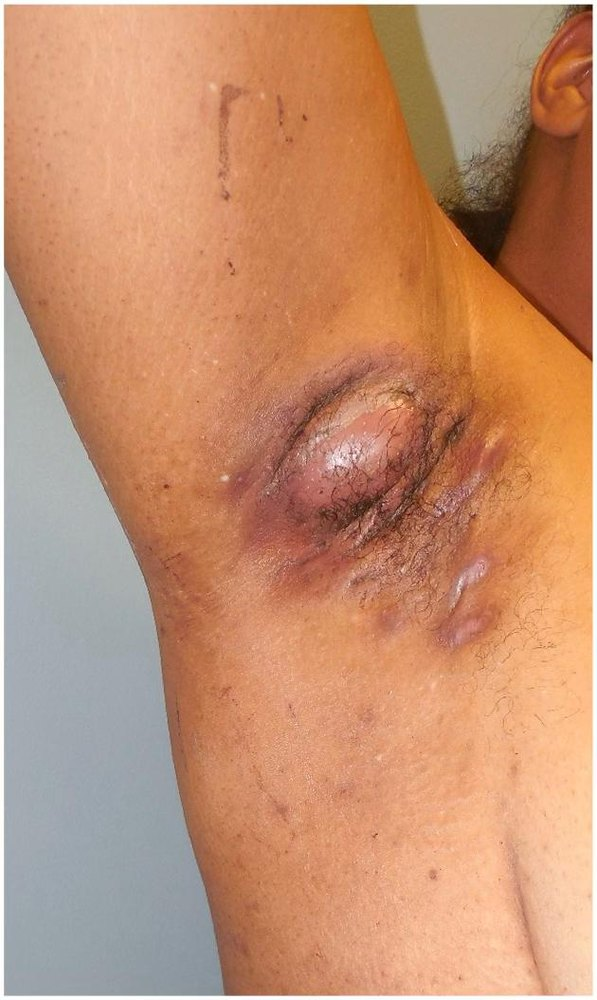
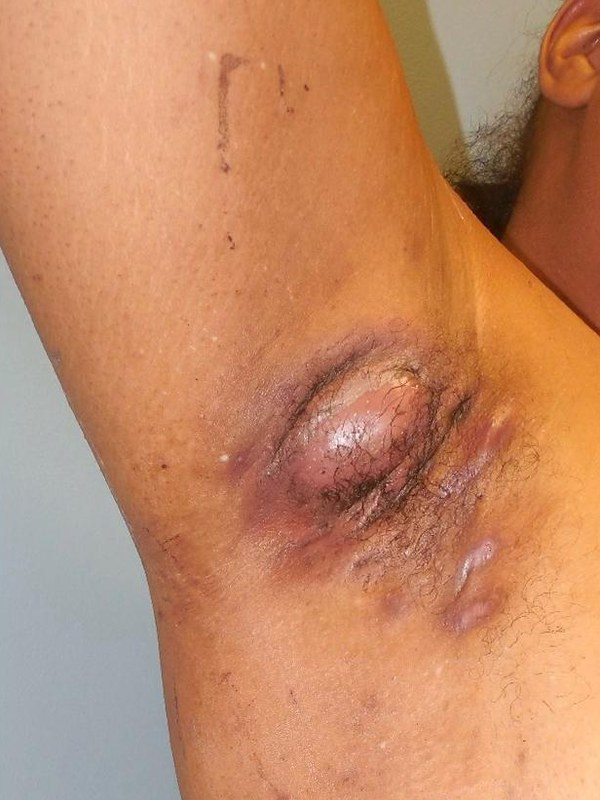
Oncesi-sonrasi yerlesim duzeltildi: fotograflardaki beyaz cerceve temizlendi, iki gorsel ayni 3:4 oranda, cerceveyi tam dolduruyor; mobilde etiketler tek satir

diff --git a/hidradenit-onarimi.html b/hidradenit-onarimi.html
@@ -118,7 +118,7 @@ else if(c!=='0'){
 <ul><li><strong>Sigara</strong> hem hastalığın seyrini hem yara iyileşmesini kötüleştirir; bırakmak tedavinin parçasıdır.</li><li><strong>Kilo kontrolü</strong> özellikle kasık ve meme altı tutulumunda atak sıklığını azaltır.</li><li><strong>Dermatoloji takibi</strong> ameliyattan sonra da sürer; cerrahi medikal tedavinin yerine geçmez.</li></ul>
 <div class="note"><p>Hiçbir cerrahi teknik HS'de %100 kalıcı sonuç garanti etmez. Size garanti veren bir yaklaşım varsa, o yaklaşımın kendisini sorgulayın.</p></div>
 </div></div></section>
-<section class="ba-sec" id="sonuc"><div class="wrap"><div class="vd-head"><p class="eyebrow">Tedavi sonucu</p><h2>Koltuk altı hidradenitinde geniş eksizyon ve onarım</h2><p class="lead">İleri evre koltuk altı hidradenitinde hastalıklı bölgenin bütünüyle çıkarılıp onarıldığı bir hastamızın ameliyat öncesi ve 1 yıl sonraki görünümü.</p></div><div class="ba-grid"><figure class="ba-fig pre"><div class="ba-img"><picture><source srcset="assets/sonuc/hidradenit-oncesi.webp" type="image/webp"><img src="assets/sonuc/hidradenit-oncesi.jpg" width="597" height="1000" loading="lazy" alt="Ameliyat öncesi — Koltuk altı hidradenitinde geniş eksizyon ve onarım"></picture></div><figcaption><b>Ameliyat öncesi</b><span>Çekim: 15 Ekim 2015</span></figcaption></figure><figure class="ba-fig post"><div class="ba-img"><picture><source srcset="assets/sonuc/hidradenit-sonrasi.webp" type="image/webp"><img src="assets/sonuc/hidradenit-sonrasi.jpg" width="722" height="840" loading="lazy" alt="Ameliyattan 1 yıl sonra — Koltuk altı hidradenitinde geniş eksizyon ve onarım"></picture></div><figcaption><b>Ameliyattan 1 yıl sonra</b><span>Çekim: 29 Ekim 2016</span></figcaption></figure></div><div class="ba-legal"><p class="ba-warn">Her cerrahi veya girişimsel işlemde sonuçlar kişiden kişiye değişiklik gösterebilir. İşlem öncesinde hekiminizden detaylı görüş almanız önerilir.</p><p>İşlem tarihi: Ekim 2015. Görseller Doç. Dr. Tahsin Oğuz Acartürk'ün gerçek hastasına aittir ve hastanın Görsel İçerik Kaydetme ve İşleme Onam Formu ile alınan yazılı açık rızasıyla, bilgilendirme amacıyla paylaşılmıştır. Fotoğraflarda rötuş, filtre veya düzenleme yapılmamıştır; yalnızca işlem bölgesi dışındaki alanlar kırpılmıştır.</p></div></div></section>
+<section class="ba-sec" id="sonuc"><div class="wrap"><div class="vd-head"><p class="eyebrow">Tedavi sonucu</p><h2>Koltuk altı hidradenitinde geniş eksizyon ve onarım</h2><p class="lead">İleri evre koltuk altı hidradenitinde hastalıklı bölgenin bütünüyle çıkarılıp onarıldığı bir hastamızın ameliyat öncesi ve 1 yıl sonraki görünümü.</p></div><div class="ba-grid"><figure class="ba-fig pre"><div class="ba-img"><picture><source srcset="assets/sonuc/hidradenit-oncesi.webp" type="image/webp"><img src="assets/sonuc/hidradenit-oncesi.jpg" width="600" height="800" loading="lazy" alt="Ameliyat öncesi — Koltuk altı hidradenitinde geniş eksizyon ve onarım"></picture></div><figcaption><b>Ameliyat öncesi</b><span>Çekim: 15 Ekim 2015</span></figcaption></figure><figure class="ba-fig post"><div class="ba-img"><picture><source srcset="assets/sonuc/hidradenit-sonrasi.webp" type="image/webp"><img src="assets/sonuc/hidradenit-sonrasi.jpg" width="600" height="800" loading="lazy" alt="Ameliyattan 1 yıl sonra — Koltuk altı hidradenitinde geniş eksizyon ve onarım"></picture></div><figcaption><b>Ameliyattan 1 yıl sonra</b><span>Çekim: 29 Ekim 2016</span></figcaption></figure></div><div class="ba-legal"><p class="ba-warn">Her cerrahi veya girişimsel işlemde sonuçlar kişiden kişiye değişiklik gösterebilir. İşlem öncesinde hekiminizden detaylı görüş almanız önerilir.</p><p>İşlem tarihi: Ekim 2015. Görseller Doç. Dr. Tahsin Oğuz Acartürk'ün gerçek hastasına aittir ve hastanın Görsel İçerik Kaydetme ve İşleme Onam Formu ile alınan yazılı açık rızasıyla, bilgilendirme amacıyla paylaşılmıştır. Fotoğraflarda rötuş, filtre veya düzenleme yapılmamıştır; yalnızca işlem bölgesi dışındaki alanlar kırpılmıştır.</p></div></div></section>
 <section class="vd-sec" id="videolar"><div class="wrap"><div class="vd-head"><p class="eyebrow">Videolar</p><h2>Doç. Dr. Acartürk Anlatıyor</h2><p class="lead">Kapağa dokunun, video bu sayfada oynar.</p></div><div class="vd-row"><div class="vd-card short" data-yt="PaXDdLXzDoI" role="button" tabindex="0" aria-label="Hidradenit (köpek memesi) hastalığı — oynat"><img src="https://i.ytimg.com/vi/PaXDdLXzDoI/hqdefault.jpg" alt="Hidradenit (köpek memesi) hastalığı" loading="lazy" width="480" height="360"><span class="vd-play" aria-hidden="true"></span><span class="vd-t">Hidradenit (köpek memesi) hastalığı</span></div><div class="vd-card short" data-yt="5IFq9hwDI4k" role="button" tabindex="0" aria-label="Köpek memesi (hidradenit) cerrahi tedavisi — oynat"><img src="https://i.ytimg.com/vi/5IFq9hwDI4k/hqdefault.jpg" alt="Köpek memesi (hidradenit) cerrahi tedavisi" loading="lazy" width="480" height="360"><span class="vd-play" aria-hidden="true"></span><span class="vd-t">Köpek memesi (hidradenit) cerrahi tedavisi</span></div></div><div class="vd-more"><a class="btn btn-o" href="https://www.youtube.com/@dr.tahsinoguzacarturk" target="_blank" rel="noopener">YouTube kanalının tamamı</a></div></div></section><script src="assets/yt.js" defer></script>
 <section id="sss"><div class="wrap"><div class="narrow"><span class="tag">S.S.S.</span><h2 style="margin:0 0 26px">Sık sorulan sorular</h2><details open><summary>Hidradenitis süpürativa hangi doktora gidilir?</summary><p>Başlangıçta dermatolojiye. Hurley 1 ve çoğu Hurley 2 olguda medikal tedavi yeterli olabilir. Tünelleşme, kalıcı nedbe ve tekrarlayan akıntı varsa plastik ve rekonstrüktif cerrahi devreye girer. En doğru yol ikisinin birlikte çalışmasıdır.</p></details><details><summary>Apsemi boşalttırıyorum ama sürekli tekrarlıyor, neden?</summary><p>Drenaj yalnızca içerideki iltihabı boşaltır; hastalığı oluşturan tünelleri ve hastalıklı ter bezi alanını yerinde bırakır. Bu yüzden şikâyet birkaç ay içinde aynı yerde geri döner. Kalıcı sonuç için hastalıklı alanın bütünüyle çıkarılması gerekir.</p></details><details><summary>Ameliyat izi büyük olur mu?</summary><p>Çıkarılan alan geniş olduğu için iz de belirgindir; bunu küçültmeye çalışmak nüksü davet eder. Buradaki öncelik iz değil, hastalığın durması ve bölgenin hareketinin korunmasıdır. Flep ile kapama, izin hareket kısıtlamayacak şekilde yerleşmesini sağlar.</p></details><details><summary>Hidradenitis süpürativa bulaşıcı mı?</summary><p>Hayır. Akıntı ve iltihap görüntüsü bulaşıcı bir enfeksiyon izlenimi verse de HS bulaşmaz. Kıl folikülünün tıkanmasıyla başlayan, bağışıklık sisteminin de rol oynadığı kronik bir deri hastalığıdır.</p></details><details><summary>İyileşme ne kadar sürer?</summary><p>Bölgeye ve kapama yöntemine göre değişir. Koltuk altı flep onarımında hareket kısıtlaması genellikle 2–4 hafta, tam iyileşme 6–8 haftadır. Greftle kapatılan geniş alanlarda süre uzar ve fizyoterapi gerekebilir.</p></details><details><summary>Ameliyat sonrası ilaç tedavisi devam eder mi?</summary><p>Çoğu hastada evet. Cerrahi, çıkarılan bölgedeki hastalığı bitirir ama sistemik yatkınlığı ortadan kaldırmaz. Dermatoloji takibi ve gerekiyorsa medikal tedavi ameliyattan sonra da sürer.</p></details></div></div></section>
 <section class="alt"><div class="wrap"><div class="narrow prose"><h2 id="kaynaklar">Kaynaklar</h2><p class="disc">Bu sayfadaki tıbbi bilgiler aşağıdaki kaynaklara dayanmaktadır.</p><ul class="srcs"><li><a href="https://www.ncbi.nlm.nih.gov/books/NBK534867/" target="_blank" rel="noopener nofollow">Hidradenitis Suppurativa — StatPearls, NCBI Bookshelf</a></li></ul></div></div></section>

diff --git a/assets/page.css b/assets/page.css
@@ -106,4 +106,4 @@ nav.main .navdrop:nth-of-type(3) .dropm a+a{border-top:0}
 @media(prefers-reduced-motion:reduce){.vd-track{animation:none}.vd-wrap{overflow-x:auto}}
 [dir=rtl] .vd-wrap,[dir=rtl] .vd-track{direction:ltr}[dir=rtl] .vd-t{direction:rtl}
 .vd-sec{background:var(--surface-2)}.vd-head{max-width:66ch;margin:0 auto clamp(28px,4vw,44px);text-align:center}.vd-head h2{margin:12px 0 14px}.vd-head .lead{margin:0 auto}.vd-row{display:flex;flex-wrap:wrap;justify-content:center;gap:16px}.vd-row .vd-card{height:260px}.vd-more{text-align:center;margin-top:26px}@media(max-width:640px){.vd-row{flex-wrap:nowrap;justify-content:flex-start;overflow-x:auto;scroll-snap-type:x mandatory;padding-bottom:8px;-webkit-overflow-scrolling:touch}.vd-row .vd-card{height:210px;scroll-snap-align:start}}[dir=rtl] .vd-row{direction:ltr}
-.ba-sec{background:var(--surface)}.ba-grid{display:grid;grid-template-columns:1fr 1fr;gap:18px;max-width:860px;margin:0 auto}.ba-fig{background:var(--surface);border:1px solid var(--line);border-radius:var(--r);overflow:hidden;box-shadow:var(--shadow);display:flex;flex-direction:column}.ba-img{position:relative;aspect-ratio:4/5;background:#EFECE6}.ba-img picture{position:absolute;inset:0;display:block}.ba-img img{width:100%;height:100%;object-fit:contain;display:block}.ba-fig figcaption{display:flex;justify-content:space-between;align-items:center;gap:10px;padding:13px 16px;border-top:1px solid var(--line)}.ba-fig figcaption b{font-size:.74rem;letter-spacing:.12em;text-transform:uppercase;font-weight:600;color:var(--primary)}.ba-fig.post figcaption b{color:var(--accent)}.ba-fig figcaption span{font-size:.78rem;color:var(--muted);white-space:nowrap}.ba-legal{max-width:860px;margin:22px auto 0}.ba-legal p{font-size:.8rem;line-height:1.6;color:var(--muted)}.ba-legal .ba-warn{background:var(--surface-2);border-left:3px solid var(--accent);border-radius:0 10px 10px 0;padding:14px 18px;margin-bottom:12px;color:var(--ink);font-size:.86rem}@media(max-width:560px){.ba-grid{gap:10px}.ba-fig figcaption{flex-direction:column;align-items:flex-start;gap:2px;padding:10px 12px}.ba-fig figcaption b{font-size:.66rem}}[dir=rtl] .ba-legal .ba-warn{border-left:0;border-right:3px solid var(--accent);border-radius:10px 0 0 10px}
+.ba-sec{background:var(--surface)}.ba-grid{display:grid;grid-template-columns:1fr 1fr;gap:18px;max-width:860px;margin:0 auto}.ba-fig{background:var(--surface);border:1px solid var(--line);border-radius:var(--r);overflow:hidden;box-shadow:var(--shadow);display:flex;flex-direction:column}.ba-img{position:relative;aspect-ratio:3/4;background:#EFECE6;overflow:hidden}.ba-img picture{position:absolute;inset:0;display:block}.ba-img img{width:100%;height:100%;object-fit:cover;display:block}.ba-fig figcaption{display:flex;justify-content:space-between;align-items:center;gap:10px;padding:13px 16px;border-top:1px solid var(--line)}.ba-fig figcaption b{font-size:.74rem;letter-spacing:.12em;text-transform:uppercase;font-weight:600;color:var(--primary)}.ba-fig.post figcaption b{color:var(--accent)}.ba-fig figcaption span{font-size:.78rem;color:var(--muted);white-space:nowrap}.ba-legal{max-width:860px;margin:22px auto 0}.ba-legal p{font-size:.8rem;line-height:1.6;color:var(--muted)}.ba-legal .ba-warn{background:var(--surface-2);border-left:3px solid var(--accent);border-radius:0 10px 10px 0;padding:14px 18px;margin-bottom:12px;color:var(--ink);font-size:.86rem}@media(max-width:560px){.ba-grid{gap:10px}.ba-fig figcaption{flex-direction:column;align-items:flex-start;gap:3px;padding:10px 12px}.ba-fig figcaption b{font-size:.6rem;letter-spacing:.05em;white-space:nowrap}.ba-fig figcaption span{font-size:.72rem}}[dir=rtl] .ba-legal .ba-warn{border-left:0;border-right:3px solid var(--accent);border-radius:10px 0 0 10px}

diff --git a/_pages_hidradenit.py b/_pages_hidradenit.py
@@ -26,8 +26,8 @@ HIDRADENIT = [{
            "baslik": "Koltuk altı hidradenitinde geniş eksizyon ve onarım",
            "aciklama": "İleri evre koltuk altı hidradenitinde hastalıklı bölgenin bütünüyle çıkarılıp onarıldığı bir hastamızın ameliyat öncesi ve 1 yıl sonraki görünümü.",
            "islem_tarihi": "Ekim 2015",
-           "oncesi": {"src": "assets/sonuc/hidradenit-oncesi", "w": 597, "h": 1000, "tarih": "15 Ekim 2015", "etiket": "Ameliyat öncesi"},
-           "sonrasi": {"src": "assets/sonuc/hidradenit-sonrasi", "w": 722, "h": 840, "tarih": "29 Ekim 2016", "etiket": "Ameliyattan 1 yıl sonra"}},
+           "oncesi": {"src": "assets/sonuc/hidradenit-oncesi", "w": 600, "h": 800, "tarih": "15 Ekim 2015", "etiket": "Ameliyat öncesi"},
+           "sonrasi": {"src": "assets/sonuc/hidradenit-sonrasi", "w": 600, "h": 800, "tarih": "29 Ekim 2016", "etiket": "Ameliyattan 1 yıl sonra"}},
  "authority": "Hidradenitis süpürativanın ileri evresinde tek kalıcı çözüm geniş eksizyon ve ardından yapılan rekonstrüksiyondur. Bu, tekrarlayan apse drenajından tamamen farklı bir cerrahidir: hastalıklı ter bezi alanının bütünüyle çıkarılması ve oluşan geniş defektin flep ya da greftle kapatılması gerekir. Doç. Dr. Acartürk'ün serbest doku aktarımı ve flep cerrahisindeki pratiği, koltuk altı ve kasık gibi hareketli bölgelerde kontraktür bırakmayan kapama planlaması için belirleyicidir.",
  "creds": ["University of Pittsburgh'da 600+ mikrocerrahi ve flep vakası",
            "Yanık ve travma sonrası skar-kontraktür rekonstrüksiyonu deneyimi",
